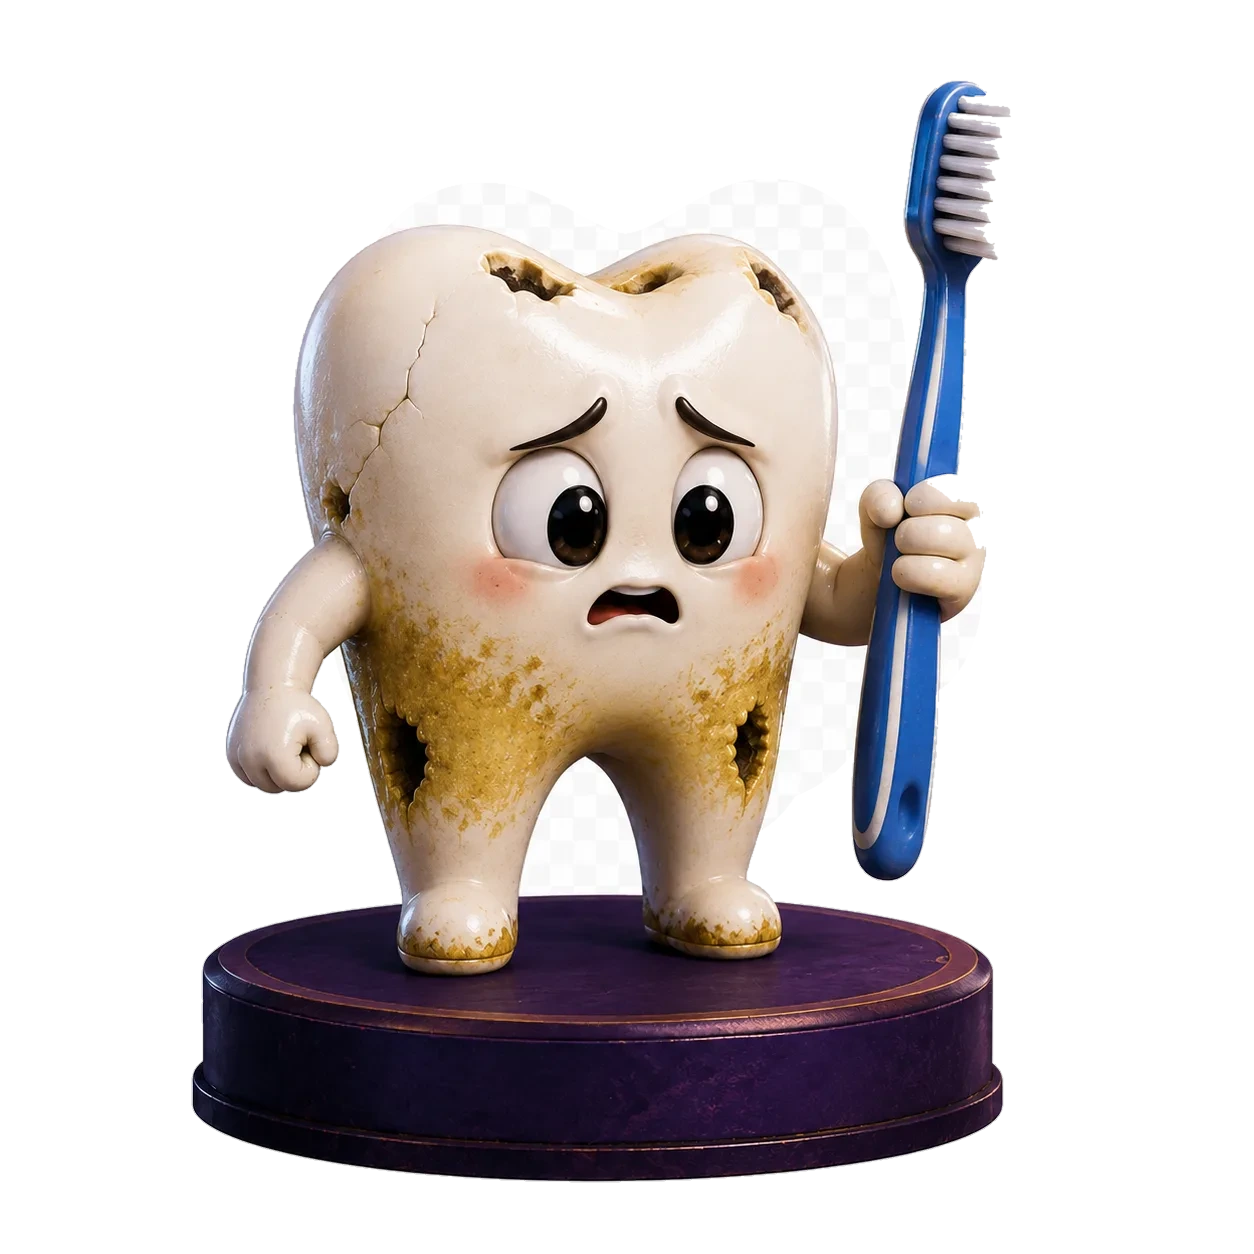
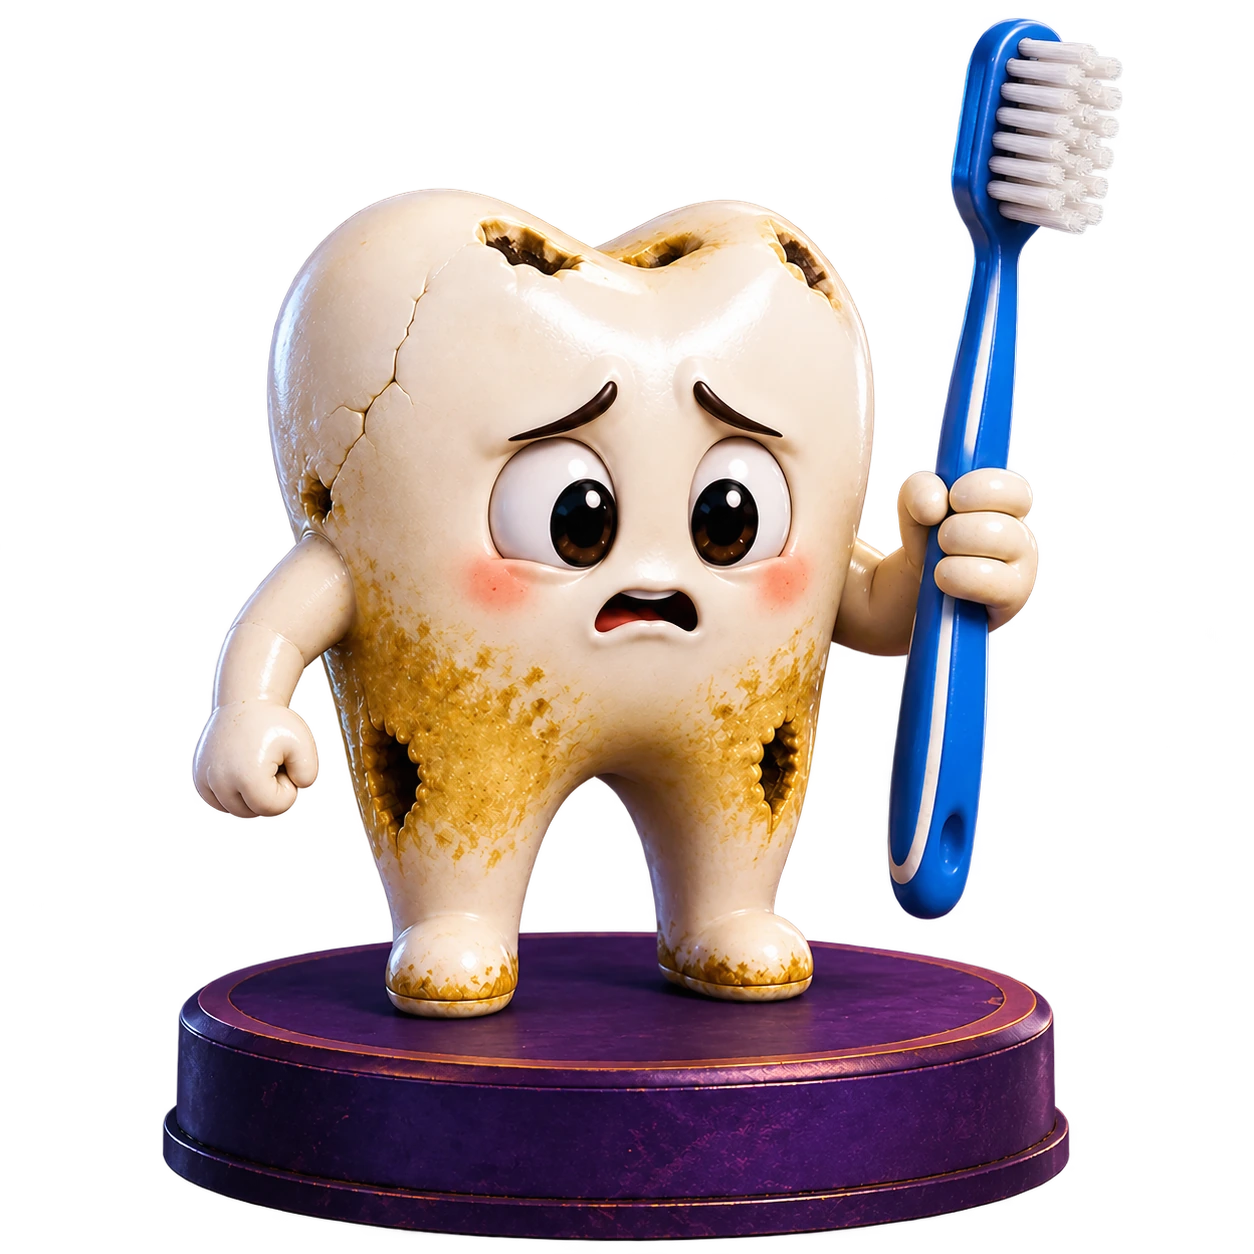
Fix Teeth artwork transparency across all ten levels and refresh asset cache

diff --git a/park31.js b/park31.js
@@ -86,7 +86,7 @@
   function assetUrl(level,mission){
     mission=mission||PUBLIC_MISSIONS.find(function(item){return item.key===KEY;})||PUBLIC_MISSIONS[0];
     level=clamp(Math.round(Number(level)||1),1,10);
-    return 'img/lab/park31/'+mission.dir+'/l'+String(level).padStart(2,'0')+'.webp?v='+VERSION;
+    return 'img/lab/park31/'+mission.dir+'/l'+String(level).padStart(2,'0')+'.webp?v='+(mission.key==='teeth'?'teeth-alpha-20261026':VERSION);
   }
   function state(level){
     level=clamp(Math.round(Number(level)||0),0,10);

diff --git a/TEETH-TRANSPARENCY-2026-10-26.md b/TEETH-TRANSPARENCY-2026-10-26.md
@@ -1,0 +1,7 @@
+# Teeth transparency repair — 26 October 2026
+
+The previous ten WebP assets had alpha outside the silhouette but still contained baked white/grey checkerboard patches inside the silhouette gaps. AI background-extraction edits preserve each existing level's tooth, toothbrush, costume and purple pedestal, remove checkerboard remnants, and repair holes from the earlier extraction.
+
+All ten assets are replaced at their existing paths. Git history retains the prior originals. park31.js uses a Teeth-specific cache suffix `teeth-alpha-20261026` without changing other mission asset versions. Main's existing Park 3.1 iframe, the roster, modal and evolution animation use this shared resolver. No layout, scoring, completion or user-state changes.
+
+Generated with built-in imagegen, one background extraction per existing level. Prompt: remove baked white/grey checkerboard and pixelated halo, preserve existing character/pose/costume/brush/purple platform and square canvas, repair earlier accidental holes; output actual RGBA transparency. Final web files are alpha-preserving WebP conversions. Visual review of all ten outputs and alpha-channel checks required before commit. Device-specific iPhone/PWA appearance still requires real-device confirmation.
